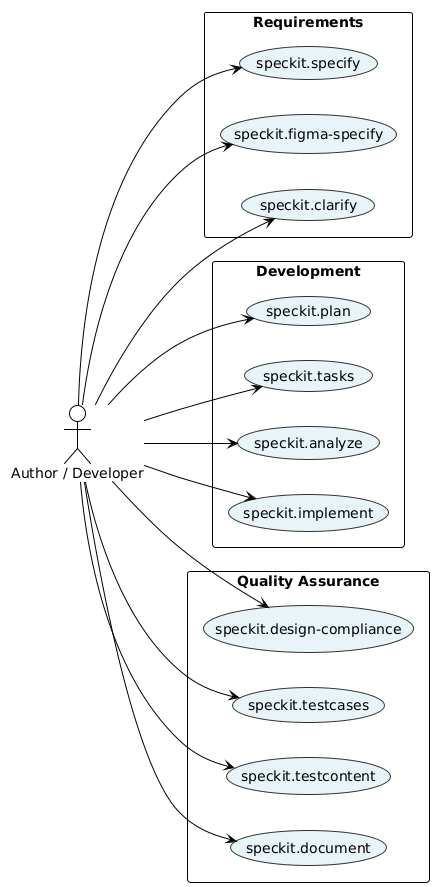
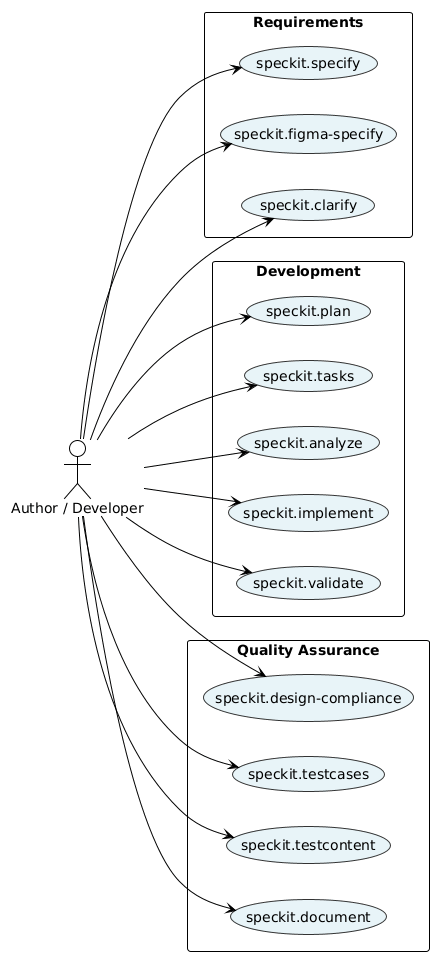
Updates speckit workflow diagrams

diff --git a/.specify/docs/speckit-workflow-diagram.md b/.specify/docs/speckit-workflow-diagram.md
@@ -2,7 +2,7 @@
 
 Specification-Driven Development (SDD) workflow for AEM Platform Core. Based on [GitHub Spec Kit](https://github.com/github/spec-kit), customized for AEM.
 
-*Source: `.specify/docs/diagrams/*.puml`. To regenerate PNGs: run `./.specify/scripts/bash/regenerate-diagrams.sh` (uses [Kroki](https://kroki.io)), or use PlantUML locally with Graphviz.*
+_Source: `.specify/docs/diagrams/_.puml`. To regenerate PNGs: run `./.specify/scripts/bash/regenerate-diagrams.sh` (uses [Kroki](https://kroki.io)), or use PlantUML locally with Graphviz.\*
 
 ---
 
@@ -48,19 +48,20 @@ UML Class Diagram of implementation task categories and their dependencies.
 
 ## Quick Reference: Command Order
 
-| Phase | Command | Output | Prerequisite | Next |
-|-------|---------|--------|--------------|------|
-| RE 1 | `/speckit.specify` | spec.md, branch, checklists/requirements-readiness-check.md | — | figma-specify, clarify, or plan |
-| RE 2 | `/speckit.figma-specify` *(optional)* | design.md | spec.md | clarify or plan |
-| RE 3 | `/speckit.clarify` | Refined spec (adds ## Clarifications) | spec.md; design.md if Figma used | plan |
-| DEV 1 | `/speckit.plan` | plan.md, research.md, data-model.md, quickstart.md | spec.md | tasks |
-| DEV 2 | `/speckit.tasks` | tasks.md | plan.md | analyze or implement |
-| DEV 3 | `/speckit.analyze` *(optional)* | Consistency report (read-only) | tasks.md | implement |
-| DEV 4 | `/speckit.implement` | Codebase changes | tasks.md, plan.md | design-compliance or testcontent |
-| QA 1 | `/speckit.design-compliance` *(recommended if design.md)* | design-expectations.json, compliance result | design.md | testcontent or document |
-| QA 2 | `/speckit.testcases` *(optional)* | testcases.csv | spec.md | testcontent |
-| QA 3 | `/speckit.testcontent` *(optional)* | Reference content in digitalxn-aem-nc-sites-reference-content | testcases.csv or spec | document |
-| QA 4 | `/speckit.document` *(optional)* | Authoring guide in .specify/memory/components/authoring-guides/ | Implementation complete | PR |
+| Phase | Command                                                   | Output                                                          | Prerequisite                     | Next                             |
+| ----- | --------------------------------------------------------- | --------------------------------------------------------------- | -------------------------------- | -------------------------------- |
+| RE 1  | `/speckit.specify`                                        | spec.md, branch, checklists/requirements-readiness-check.md     | —                                | figma-specify, clarify, or plan  |
+| RE 2  | `/speckit.figma-specify` _(optional)_                     | design.md                                                       | spec.md                          | clarify or plan                  |
+| RE 3  | `/speckit.clarify`                                        | Refined spec (adds ## Clarifications)                           | spec.md; design.md if Figma used | plan                             |
+| DEV 1 | `/speckit.plan`                                           | plan.md, research.md, data-model.md, quickstart.md              | spec.md                          | tasks                            |
+| DEV 2 | `/speckit.tasks`                                          | tasks.md                                                        | plan.md                          | analyze or implement             |
+| DEV 3 | `/speckit.analyze` _(optional)_                           | Consistency report (read-only)                                  | tasks.md                         | implement                        |
+| DEV 4 | `/speckit.implement`                                      | Codebase changes, CDD Phase 3 (implement portion): unit tests, lint, block-scoped verification | tasks.md, plan.md                | validate                         |
+| DEV 5 | `/speckit.validate`                                       | CDD Phase 3 (validate portion): test with content, comprehensive testing, PR readiness         | tasks.md, implementation         | design-compliance or testcontent |
+| DEV 6 | `/speckit.design-compliance` _(recommended if design.md)_ | design-expectations.json, compliance result                     | design.md                        | testcontent or document          |
+| QA 1  | `/speckit.testcases` _(optional)_                         | testcases.csv                                                   | spec.md                          | testcontent                      |
+| QA 2  | `/speckit.testcontent` _(optional)_                       | Reference content in digitalxn-aem-nc-sites-reference-content   | testcases.csv or spec            | document                         |
+| QA 3  | `/speckit.document` _(optional)_                          | Authoring guide in .specify/memory/components/authoring-guides/ | Implementation complete          | PR                               |
 
 **RE order when Figma exists:** specify → figma-specify → clarify → plan. When no Figma: specify → clarify → plan.
 
@@ -70,11 +71,11 @@ UML Class Diagram of implementation task categories and their dependencies.
 
 ## Prerequisites & Scripts
 
-| Command | Setup Script |
-|---------|--------------|
-| clarify, plan, tasks, implement, design-compliance, testcases, testcontent, document | `check-prerequisites.sh --json [--require-tasks] [--include-tasks]` |
-| specify | `create-new-feature.sh --json --number <n> --short-name "<name>" "<description>"` |
-| plan | `setup-plan.sh --json` |
+| Command                                                                                        | Setup Script                                                                      |
+| ---------------------------------------------------------------------------------------------- | --------------------------------------------------------------------------------- |
+| clarify, plan, tasks, implement, validate, design-compliance, testcases, testcontent, document | `check-prerequisites.sh --json [--require-tasks] [--include-tasks]`               |
+| specify                                                                                        | `create-new-feature.sh --json --number <n> --short-name "<name>" "<description>"` |
+| plan                                                                                           | `setup-plan.sh --json`                                                            |
 
 `check-prerequisites.sh` outputs: `FEATURE_DIR`, `FEATURE_SPEC`, `FEATURE_DESIGN`, `IMPL_PLAN`, `TASKS`, `AVAILABLE_DOCS`. Requires feature branch (e.g. `feature/001-name`).
 
@@ -84,26 +85,28 @@ UML Class Diagram of implementation task categories and their dependencies.
 
 All spec artifacts live under `.specify/specs/<number>-<short-name>/`:
 
-| Artifact | Path |
-|----------|------|
-| spec.md | `FEATURE_DIR/spec.md` |
-| design.md | `FEATURE_DIR/design.md` |
-| plan.md | `FEATURE_DIR/plan.md` |
-| research.md | `FEATURE_DIR/research.md` |
-| data-model.md | `FEATURE_DIR/data-model.md` |
-| quickstart.md | `FEATURE_DIR/quickstart.md` |
-| tasks.md | `FEATURE_DIR/tasks.md` |
-| testcases.csv | `FEATURE_DIR/testcases.csv` |
+| Artifact                 | Path                                   |
+| ------------------------ | -------------------------------------- |
+| spec.md                  | `FEATURE_DIR/spec.md`                  |
+| design.md                | `FEATURE_DIR/design.md`                |
+| plan.md                  | `FEATURE_DIR/plan.md`                  |
+| research.md              | `FEATURE_DIR/research.md`              |
+| data-model.md            | `FEATURE_DIR/data-model.md`            |
+| quickstart.md            | `FEATURE_DIR/quickstart.md`            |
+| tasks.md                 | `FEATURE_DIR/tasks.md`                 |
+| testcases.csv            | `FEATURE_DIR/testcases.csv`            |
 | design-expectations.json | `FEATURE_DIR/design-expectations.json` |
-| checklists/*.md | `FEATURE_DIR/checklists/` |
+| checklists/\*.md         | `FEATURE_DIR/checklists/`              |
 
 ---
 
 ## Key Rules
 
+- **CDD Phase 3 split**: Implement owns creation (unit tests, lint, block-scoped verification); validate owns verification (full project) and PR readiness.
 - **spec.md** is the source of truth for functional requirements.
 - **design.md** (from `/speckit.figma-specify`) is the source of truth for HTML/CSS when present. Plan, quickstart, and task summaries must not override it.
 - **clarify** reads design.md when it exists as read-only context to refine spec; design.md is never modified.
+- **implement** creates unit tests for logic-heavy utilities (final step); **validate** verifies they exist and pass.
 - **design-compliance** requires design.md. Generates design-expectations.json and runs CSS compliance check.
 - **testcases** can run after specify or clarify when spec is ready; also after implementation. Drives testcontent when present.
 - **testcontent** best run after testcases; creates reference content in digitalxn-aem-nc-sites-reference-content.
